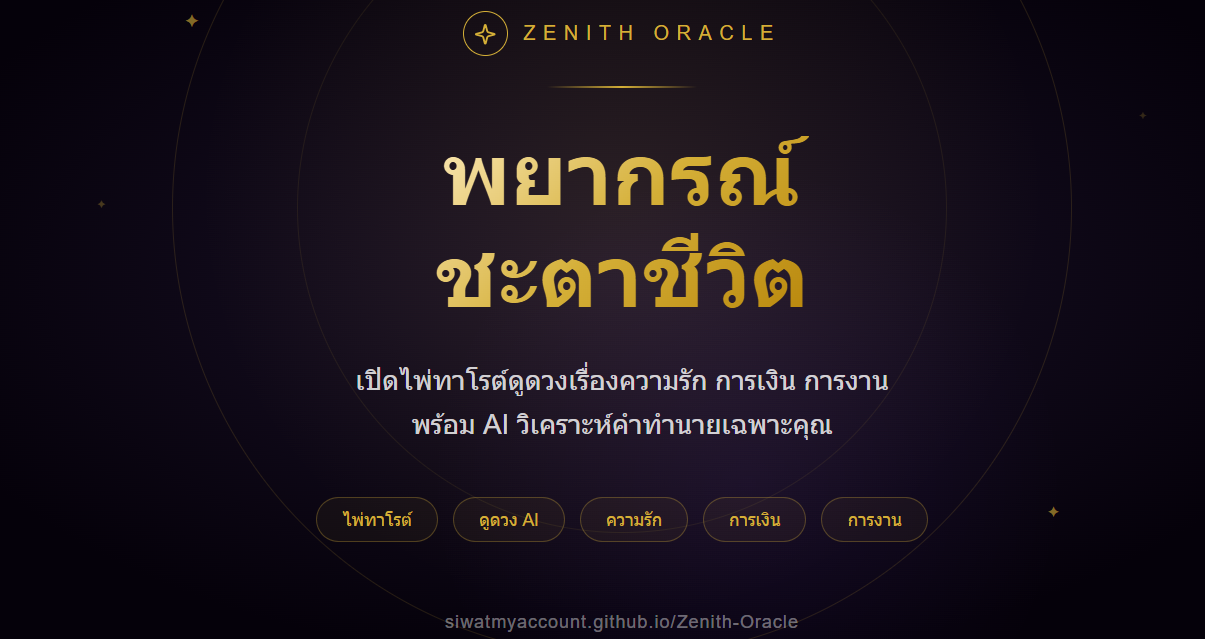
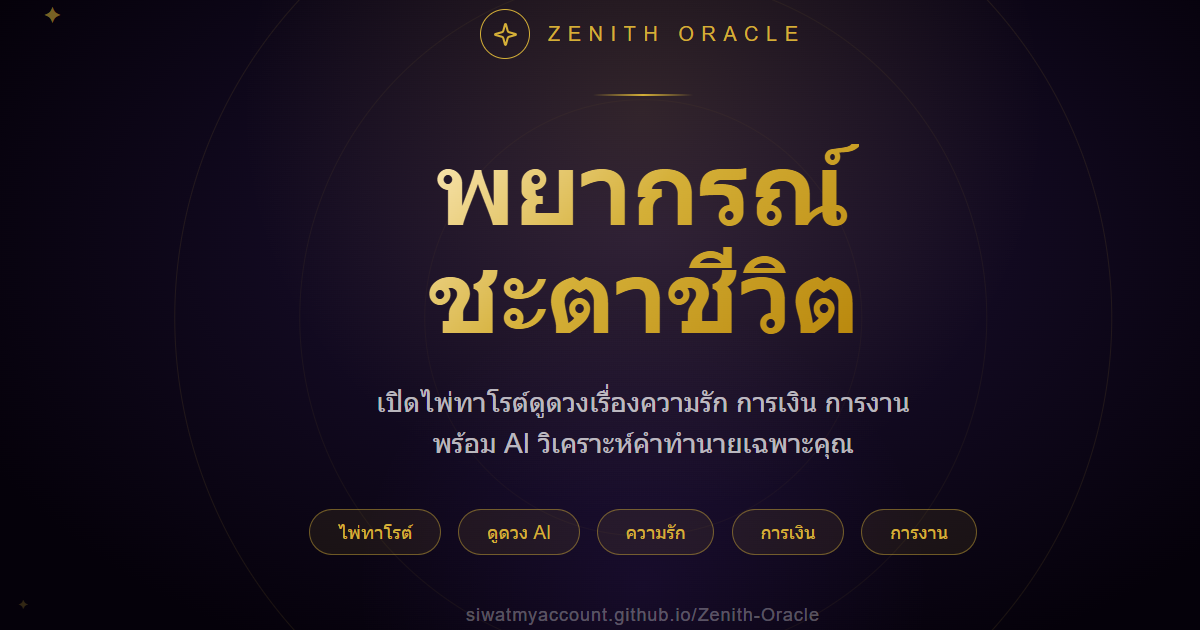
update code v.2

diff --git a/script.js b/script.js
@@ -929,11 +929,10 @@ function undoCardPick(index) {
 }
 
 
-// อัปเกรด: ระบบสร้างสำรับไพ่แบบกรีดโค้ง (แก้ปัญหาไพ่ล้นจอ และแตะ 2 จังหวะในมือถือแบบชัวร์ 100%)
+// อัปเกรด: ระบบสร้างสำรับไพ่แบบกรีดโค้ง 
 function generateDeck() {
     const deck = document.getElementById('card-deck');
     deck.innerHTML = '';
-    
     
     const totalCards = 42;
     const screenWidth = window.innerWidth;
@@ -958,58 +957,52 @@ function generateDeck() {
         let lastClickTime = 0;
 
         c.onclick = function(e) {
-            // ป้องกันการกดไพ่ใบที่บินไปแล้ว
-            if (this.classList.contains('picked')) return;
+            // ป้องกันการกดไพ่ใบที่บินไปแล้ว หรือกำลังบินอยู่
+            if (this.classList.contains('picked') || isFlying) return;
 
             // 🛑 เวทมนตร์แก้บั๊ก: ป้องกันเบราว์เซอร์ส่งคำสั่งคลิก 2 ครั้งซ้อนกันในเสี้ยววินาที
             const now = Date.now();
             if (now - lastClickTime < 300) return; 
             lastClickTime = now;
 
-            // ตรวจสอบว่าเป็นมือถือหรือไม่ (ใช้ความกว้างหน้าจอเป็นหลัก ชัวร์ที่สุด)
-            const isMobile = window.innerWidth <= 768;
-
-            if (isMobile) {
-                // ถ้ายังไม่ถูกโฟกัส (แตะครั้งแรก)
-               // ถ้ายังไม่ถูกโฟกัส (แตะครั้งแรก)
-                if (!this.classList.contains('focused')) {
-                    
-                    // 1. 🌟 อัปเกรด: กวาดล้างไพ่ใบอื่นที่ค้างโด่อยู่ให้หุบลงแบบ 100% 
-                    document.querySelectorAll('.card-mini').forEach(card => {
-                        if (card !== this && !card.classList.contains('picked')) {
-                            card.classList.remove('focused');
-                            card.style.transform = `rotate(${card.dataset.angle}deg)`;
-                            card.style.zIndex = card.dataset.zIndex;
-                            card.style.borderColor = "rgba(212, 175, 55, 0.5)";
-                        }
-                    });
-                    
-                    // 2. โฟกัสไพ่ใบนี้ (เด้งขึ้นมาให้เห็นชัดๆ)
-                    this.classList.add('focused');
-                    
-                    const liftDistance = window.innerWidth < 500 ? -40 : -30;
-                    this.style.transform = `rotate(${currentAngle}deg) translateY(${liftDistance}px) scale(1.2)`;
-                    this.style.zIndex = 100;
-                    this.style.borderColor = "var(--gold-bright)";
-                    
-                    if (navigator.vibrate) navigator.vibrate(50);
-                    
-                    return; // 🛑 สั่งหยุดการทำงานตรงนี้ เพื่อรอให้ผู้ใช้แตะซ้ำอีกรอบ
-                }
+            // ถ้ายังไม่ถูกโฟกัส (แตะครั้งแรก)
+            if (!this.classList.contains('focused')) {
+                
+                // 1. 🌟 อัปเกรด: กวาดล้างไพ่ใบอื่นที่ค้างโด่อยู่ให้หุบลงแบบ 100% 
+                document.querySelectorAll('.card-mini.focused').forEach(card => {
+                    if (card !== this && !card.classList.contains('picked')) {
+                        card.classList.remove('focused');
+                        card.style.transform = `rotate(${card.dataset.angle}deg)`;
+                        card.style.zIndex = card.dataset.zIndex;
+                        card.style.borderColor = "rgba(212, 175, 55, 0.5)";
+                    }
+                });
+                
+                // 2. โฟกัสไพ่ใบนี้ (เด้งขึ้นมาให้เห็นชัดๆ)
+                this.classList.add('focused');
+                
+                const liftDistance = window.innerWidth < 500 ? -40 : -30;
+                this.style.transform = `rotate(${currentAngle}deg) translateY(${liftDistance}px) scale(1.2)`;
+                this.style.zIndex = 100;
+                this.style.borderColor = "var(--gold-bright)";
+                
+                if (navigator.vibrate) navigator.vibrate(50);
+                
+                return; // 🛑 สั่งหยุดการทำงานตรงนี้ เพื่อรอให้ผู้ใช้แตะซ้ำอีกรอบ
             }
             
-            // 🌟 ถ้าเป็นคอมพิวเตอร์ หรือ มือถือที่ "แตะซ้ำใบเดิม" แล้ว จะทำงานส่วนนี้
+            // 🌟 "แตะซ้ำใบเดิม" ครั้งที่ 2 จะทำงานส่วนนี้
             
             // 1. ลบคลาสโฟกัสออก
             this.classList.remove('focused'); 
             
-            // 2. เรียกฟังก์ชันบินเข้าสล็อต
+            // 2. เรียกฟังก์ชันบินเข้าสล็อต พร้อมซ่อนไพ่ใบนี้ในกอง
             pickCard(this); 
         };
 
-        // 💻 ระบบ Hover สำหรับคอมพิวเตอร์ (ไม่ทำงานในมือถือ)
+        // 💻 ระบบ Hover สำหรับคอมพิวเตอร์ (มือถือไม่ทำงาน)
         c.onmouseenter = function() {
-            if (window.innerWidth <= 768) return; // มือถือไม่ต้องทำ
+            if (window.innerWidth <= 768) return; 
             if(!this.classList.contains('picked')) {
                 this.style.transform = `rotate(${currentAngle}deg) translateY(-25px) scale(1.15)`;
                 this.style.zIndex = 100;
@@ -1018,7 +1011,7 @@ function generateDeck() {
         };
         
         c.onmouseleave = function() {
-            if (window.innerWidth <= 768) return; // มือถือไม่ต้องทำ
+            if (window.innerWidth <= 768) return; 
             if(!this.classList.contains('picked') && !this.classList.contains('focused')) {
                 this.style.transform = `rotate(${currentAngle}deg)`;
                 this.style.zIndex = this.dataset.zIndex;
@@ -1031,7 +1024,7 @@ function generateDeck() {
 }
 
 // ==========================================
-// 🌟 5. ระบบไพ่พุ่งเข้าสล็อตเป้าหมาย
+// 🌟 5. ระบบไพ่พุ่งเข้าสล็อตเป้าหมาย (แก้ไม่ให้มีไพ่ทิ้งไว้ในกอง)
 // ==========================================
 function pickCard(el) {
     const pickedCount = selectedCards.filter(c => c !== null).length;
@@ -1044,22 +1037,28 @@ function pickCard(el) {
     safePlay(sfxPick);
     isFlying = true;
 
+    // --- ส่วนสุ่มไพ่จากฐานข้อมูล (เหมือนเดิม) ---
     let cardTemplate = finalTarotDB[Math.floor(Math.random() * finalTarotDB.length)];
-    // เช็คไม่ให้ไพ่ซ้ำกับใบที่มีอยู่ในช่อง
     while(selectedCards.some(c => c !== null && c.name === cardTemplate.name)) {
         cardTemplate = finalTarotDB[Math.floor(Math.random() * finalTarotDB.length)];
     }
     const isReversed = Math.random() > 0.7; 
     const card = { ...cardTemplate, isReversed, deckElementIndex: el.dataset.zIndex };
-    
+    // ------------------------------------------
+
+    // มาร์กว่าไพ่ใบนี้ถูกเลือกแล้ว
     el.classList.add('picked');
+    
+    // 🚨 หัวใจหลักของการแก้ปัญหา! ซ่อนไพ่ใบที่อยู่ในกองทันที 🚨
+    el.style.opacity = '0'; // ทำให้ล่องหน เพื่อไม่ให้เห็นเป็นร่างจางๆ ค้างในกอง
 
     const slots = document.querySelectorAll('.slot');
-    const targetSlot = slots[targetIndex]; // ไพ่จะบินไปหาช่องว่างเป้าหมาย
+    const targetSlot = slots[targetIndex]; 
     
     const startRect = el.getBoundingClientRect();
     const targetRect = targetSlot.getBoundingClientRect();
 
+    // สร้างไพ่ตัวแทนสำหรับทำแอนิเมชันบิน
     const flyingCard = document.createElement('div');
     flyingCard.className = 'flying-card';
     flyingCard.style.left = `${startRect.left}px`;
@@ -1067,28 +1066,64 @@ function pickCard(el) {
     flyingCard.style.transform = `rotate(${el.dataset.angle || 0}deg)`;
     document.body.appendChild(flyingCard);
 
+    // บังคับให้เบราว์เซอร์คำนวณ Layout เพื่อให้ transition ทำงาน
     void flyingCard.offsetWidth;
 
+    // สั่งให้บินไปที่เป้าหมาย
     flyingCard.style.left = `${targetRect.left}px`;
     flyingCard.style.top = `${targetRect.top}px`;
     flyingCard.style.width = `${targetRect.width}px`;
     flyingCard.style.height = `${targetRect.height}px`;
     flyingCard.style.transform = `rotate(0deg)`;
 
+    // เมื่อแอนิเมชันบินจบ
     setTimeout(() => {
-        flyingCard.remove(); 
+        flyingCard.remove(); // ลบไพ่ที่ใช้ทำแอนิเมชันทิ้ง
         
-        // 🌟 ยัดไพ่ลงในตำแหน่งเฉพาะที่ว่างนั้น
+        // 🌟 ยัดไพ่ลงในตำแหน่งช่องว่าง
         selectedCards[targetIndex] = card; 
         updateSlotsDisplay(); 
         saveSessionState(); 
         isFlying = false; 
 
-        // ถ้าไม่มีช่องไหนว่างอีกแล้ว = ครบ
+        // ถ้าเลือกครบแล้ว ให้เตรียมไปหน้าถัดไป
         if (!selectedCards.includes(null)) {
             setTimeout(() => flipAllSlotsThenShow(), 800);
         }
     }, 600); 
+}
+
+// ==========================================
+// 🌟 4. ระบบยกเลิกไพ่ (แก้ให้ไพ่กลับมาโชว์ในกองเหมือนเดิม)
+// ==========================================
+function undoCardPick(index) {
+    const pickedCount = selectedCards.filter(c => c !== null).length;
+    if (pickedCount === user.spread) return; 
+    if (isFlying) return; 
+    
+    const card = selectedCards[index];
+    if (!card) return; 
+    
+    // เอาไพ่กลับไปคืนในกอง
+    if (card.deckElementIndex !== undefined) {
+        const deckCard = document.querySelector(`.card-mini[data-z-index="${card.deckElementIndex}"]`);
+        if(deckCard) {
+            deckCard.classList.remove('picked');
+            deckCard.classList.remove('focused');
+            
+            // 🚨 คืนชีพไพ่! ทำให้ไพ่ที่ซ่อนไว้กลับมามองเห็นอีกครั้ง 🚨
+            deckCard.style.opacity = '1'; 
+            
+            deckCard.style.transform = `rotate(${deckCard.dataset.angle}deg)`;
+            deckCard.style.zIndex = deckCard.dataset.zIndex;
+            deckCard.style.borderColor = "rgba(212, 175, 55, 0.5)";
+        }
+    }
+    
+    selectedCards[index] = null; 
+    
+    updateSlotsDisplay();
+    saveSessionState();
 }
 
 function calculateSoulNum(dob) {

diff --git a/og-preview-text.html b/og-preview-text.html
@@ -1,0 +1,66 @@
+<!DOCTYPE html>
+<html>
+<head>
+<meta charset="UTF-8">
+<style>
+* { margin:0; padding:0; box-sizing:border-box; }
+body { width:1200px; height:630px; overflow:hidden; background:#05010a; }
+.card {
+  width:1200px; height:630px;
+  background: radial-gradient(ellipse at 50% 40%, #1e1235 0%, #05010a 70%);
+  display:flex; flex-direction:column; align-items:center; justify-content:center;
+  position:relative; overflow:hidden; font-family:Georgia,serif; text-align:center;
+}
+.glow1 { position:absolute; width:700px; height:700px; background:radial-gradient(circle,rgba(212,175,55,0.14) 0%,transparent 65%); top:-200px; left:50%; transform:translateX(-50%); pointer-events:none; }
+.glow2 { position:absolute; width:500px; height:500px; background:radial-gradient(circle,rgba(140,80,255,0.09) 0%,transparent 65%); bottom:-150px; left:50%; transform:translateX(-50%); pointer-events:none; }
+.circ { position:absolute; border-radius:50%; border:1px solid rgba(212,175,55,0.1); left:50%; top:50%; transform:translate(-50%,-50%); pointer-events:none; }
+.star { position:absolute; color:rgba(212,175,55,0.55); }
+.content { position:relative; z-index:2; display:flex; flex-direction:column; align-items:center; }
+.brand { display:flex; align-items:center; gap:14px; margin-bottom:28px; }
+.brand-ring { width:40px; height:40px; border:1.5px solid #d4af37; border-radius:50%; display:flex; align-items:center; justify-content:center; }
+.brand-name { font-size:16px; letter-spacing:6px; color:#d4af37; text-transform:uppercase; font-family:Arial,sans-serif; }
+.divider-h { width:80px; height:1px; background:linear-gradient(to right,transparent,#d4af37,transparent); margin:0 auto 32px; }
+.title { font-size:80px; font-weight:bold; line-height:1.08; background:linear-gradient(135deg,#fceabb 0%,#d4af37 45%,#b8860b 100%); -webkit-background-clip:text; -webkit-text-fill-color:transparent; margin-bottom:24px; letter-spacing:-1px; }
+.sub { font-size:22px; color:rgba(255,255,255,0.7); line-height:1.5; margin-bottom:36px; font-family:Arial,sans-serif; font-weight:300; max-width:700px; }
+.tags { display:flex; gap:14px; justify-content:center; flex-wrap:wrap; margin-bottom:40px; }
+.tag { padding:8px 22px; border:1px solid rgba(212,175,55,0.45); border-radius:30px; font-size:15px; color:#d4af37; font-family:Arial,sans-serif; background:rgba(212,175,55,0.08); }
+.url-text { font-size:14px; color:rgba(255,255,255,0.3); font-family:Arial,sans-serif; letter-spacing:1px; }
+</style>
+</head>
+<body>
+<div class="card">
+  <div class="glow1"></div>
+  <div class="glow2"></div>
+  <div class="circ" style="width:750px;height:750px;"></div>
+  <div class="circ" style="width:550px;height:550px;opacity:0.6;"></div>
+  <div class="circ" style="width:350px;height:350px;opacity:0.4;"></div>
+  <div class="star" style="top:60px;left:120px;font-size:18px;">✦</div>
+  <div class="star" style="top:80px;right:130px;font-size:12px;opacity:0.5;">✦</div>
+  <div class="star" style="bottom:80px;left:100px;font-size:10px;opacity:0.4;">✦</div>
+  <div class="star" style="bottom:90px;right:110px;font-size:16px;">✦</div>
+  <div class="star" style="top:200px;left:60px;font-size:8px;opacity:0.35;">✦</div>
+  <div class="star" style="top:180px;right:65px;font-size:9px;opacity:0.4;">✦</div>
+  <div class="content">
+    <div class="brand">
+      <div class="brand-ring">
+        <svg width="20" height="20" viewBox="0 0 24 24" fill="none" stroke="#d4af37" stroke-width="2">
+          <path d="M9.937 15.5A2 2 0 0 0 8.5 14.063l-6.135-1.582a.5.5 0 0 1 0-.962L8.5 9.936A2 2 0 0 0 9.937 8.5l1.582-6.135a.5.5 0 0 1 .963 0L14.063 8.5A2 2 0 0 0 15.5 9.937l6.135 1.581a.5.5 0 0 1 0 .964L15.5 14.063a2 2 0 0 0-1.437 1.437l-1.582 6.135a.5.5 0 0 1-.963 0z"/>
+        </svg>
+      </div>
+      <span class="brand-name">Zenith Oracle</span>
+    </div>
+    <div class="divider-h"></div>
+    <div class="title">พยากรณ์<br>ชะตาชีวิต</div>
+    <div class="sub">เปิดไพ่ทาโรต์ดูดวงเรื่องความรัก การเงิน การงาน<br>พร้อม AI วิเคราะห์คำทำนายเฉพาะคุณ</div>
+    <div class="tags">
+      <span class="tag">ไพ่ทาโรต์</span>
+      <span class="tag">ดูดวง AI</span>
+      <span class="tag">ความรัก</span>
+      <span class="tag">การเงิน</span>
+      <span class="tag">การงาน</span>
+    </div>
+    <div class="url-text">siwatmyaccount.github.io/Zenith-Oracle</div>
+  </div>
+</div>
+</body>
+</html>

diff --git a/index.html b/index.html
@@ -20,8 +20,8 @@
     <meta property="og:title"       content="ZENITH ORACLE — พยากรณ์ชะตานำพาชีวิต">
     <meta property="og:description" content="เปิดไพ่ทาโรต์ดูดวงเรื่องความรัก การเงิน การงาน และภาพรวมชีวิต พร้อม AI วิเคราะห์เฉพาะคุณ">
     <meta property="og:image" content="https://siwatmyaccount.github.io/Zenith-Oracle/og-image.jpg">
-    <meta property="og:image:width"  content="640">
-    <meta property="og:image:height" content="800">
+    <meta property="og:image:width"  content="1200">
+    <meta property="og:image:height" content="630">
     <meta property="og:locale"      content="th_TH">
     <meta property="og:site_name"   content="Zenith Oracle">
 
